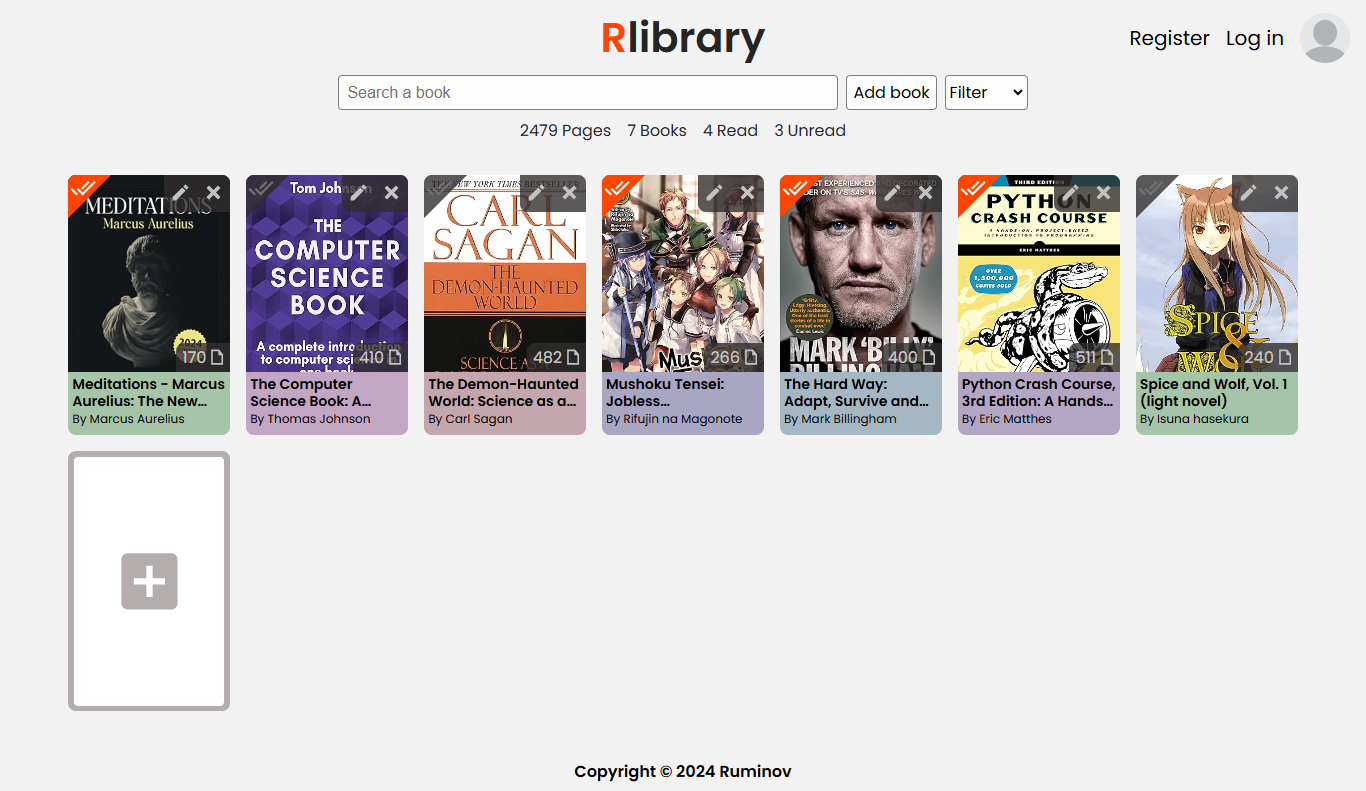
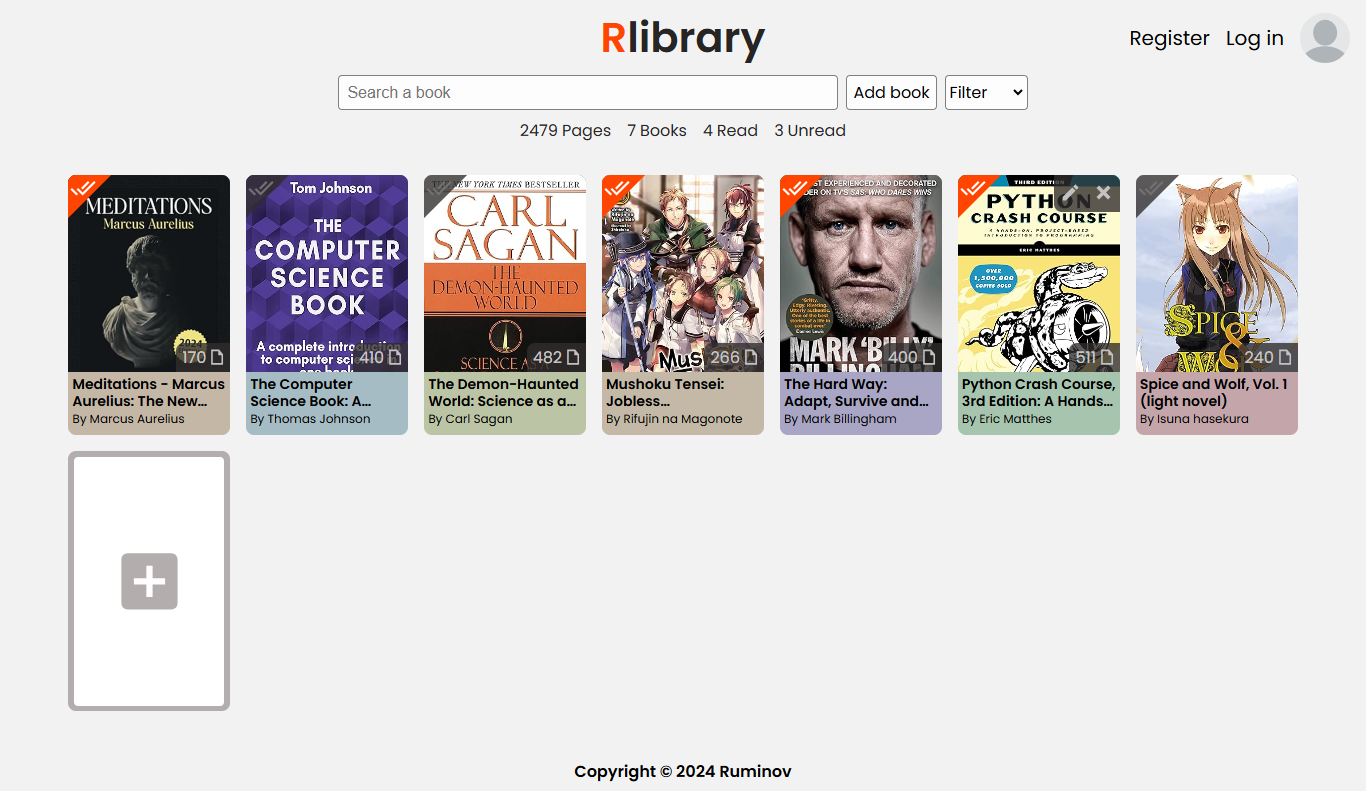
Adjust size of modal two

diff --git a/style.css b/style.css
@@ -346,9 +346,11 @@ dialog.modal {
   border: 1px solid var(--border-primary);
   background-color: var(--background-primary);
   border-radius: 8px;
-  min-width: 330px;
   &:focus-visible {
     outline: none;
+  }
+  &.one {
+    min-width: 330px;
   }
 }
 
@@ -443,9 +445,6 @@ dialog.modal button {
   &#btn-remove {
     background-color: var(--color-accent);
   }
-  &:hover {
-    filter: opacity(85%);
-  }
 }
 
 dialog::backdrop {
@@ -509,8 +508,12 @@ a:focus {
 
 /* Hover styles for desktop */
 @media (hover: hover) and (pointer: fine) {
+  dialog.modal button:hover {
+    filter: opacity(85%);
+  }
+
   .book-image .book-options {
-    /* opacity: 0; */
+    opacity: 0;
     transition: opacity 170ms;
   }
 
